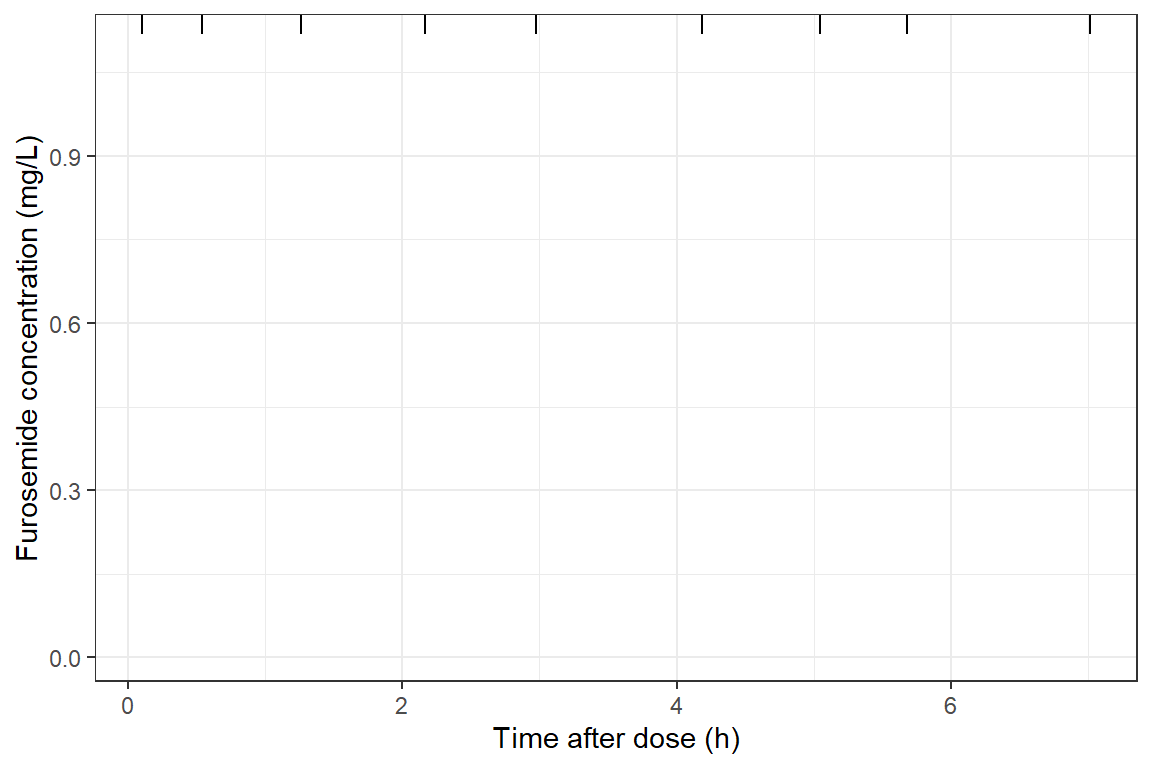
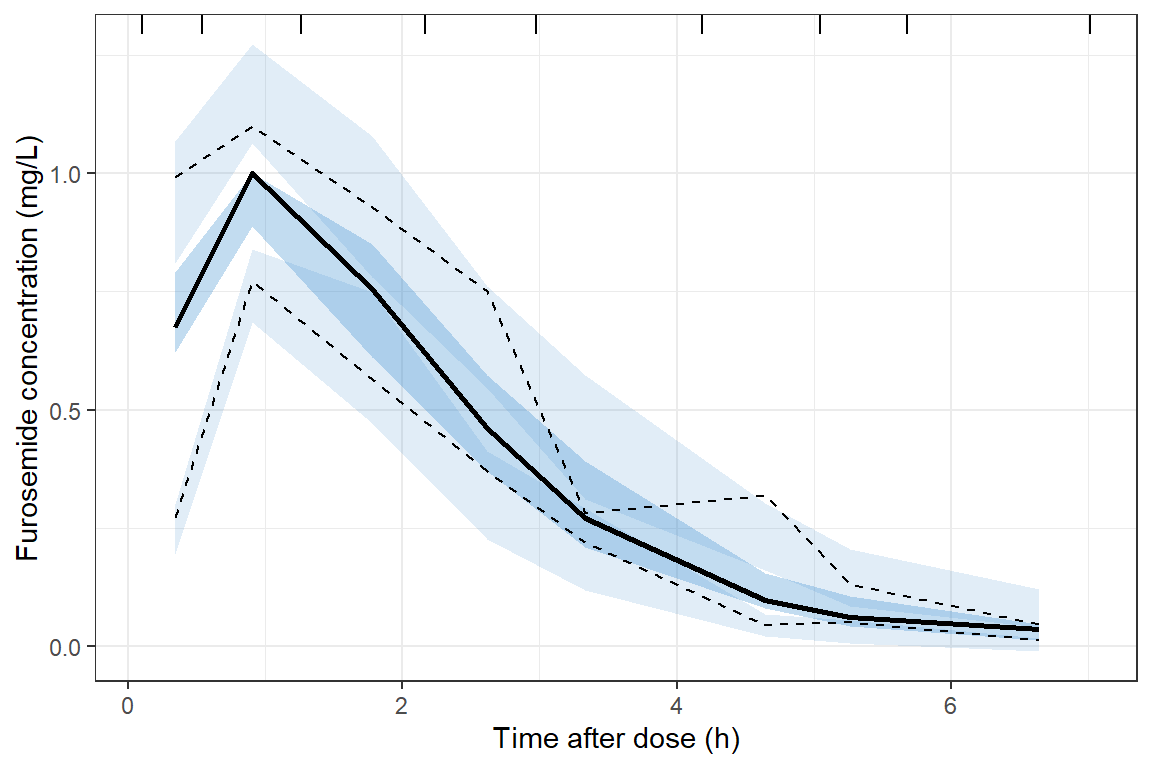
240626_2

diff --git a/docs/variability.html b/docs/variability.html
@@ -551,17 +551,14 @@ Figure 3: Conditionally weighted residuals plotted against time from dose - 2-co
 <p>The diagnostic plots we have used so far (DV vs PRED, DV vs IPRED, CWRES) assess model fit by examining residuals. A complementary and widely used approach is the <strong>Visual Predictive Check (VPC)</strong>.</p>
 <p>You may come across this in p</p>
 <p>The principle is straightforward: if our model is a good description of the data, then concentrations simulated from the model should look like the concentrations we actually observed. To produce a VPC, the fitted model is used to generate prediction intervals, which are then plotted alongside the observed data. A well-fitting model will have the observed data points falling within these intervals.</p>
-<pre class="r"><code># install.packages(&#39;vpc&#39;)
-library(vpc)
-
-vpc(fit, show = list(obs_dv = TRUE)) +
+<pre class="r"><code>vpcPlot(fit) +
   theme_bw(base_size = 11) +
   xlab(&quot;Time after dose (h)&quot;) +
   ylab(&quot;Furosemide concentration (mg/L)&quot;)</code></pre>
 <div class="figure" style="text-align: center"><span style="display:block;" id="fig:vpc"></span>
-<img src="variability_files/figure-html/vpc-1.png" alt="Visual Predictive Check for one-compartment model fit of phenobarbital data" width="576" />
+<img src="variability_files/figure-html/vpc-1.png" alt="Visual Predictive Check for one-compartment model fit of furosemide data" width="576" />
 <p class="caption">
-Figure 4: Visual Predictive Check for one-compartment model fit of phenobarbital data
+Figure 4: Visual Predictive Check for one-compartment model fit of furosemide data
 </p>
 </div>
 </div>
@@ -817,9 +814,8 @@ Figure 6: Basic diagnostic plots for one-compartment model fit of pheno data
 </p>
 </div>
 </div>
-</div>
-<div id="testing-a-continuous-covariate" class="section level1">
-<h1>Testing a continuous covariate</h1>
+<div id="testing-a-continuous-covariate" class="section level2">
+<h2>Testing a continuous covariate</h2>
 <p>When we include a continuous covariate such as weight in a population pharmacokinetic model, we need to define a meaningful reference point.</p>
 <p>Because clearance is estimated in the exponential domain, the typical population clearance is only recovered when the covariate term equals zero. So we need to ensure that zero corresponds to a clinically sensible value.</p>
 <p>By expressing weight as <TT>log(WT/median_weight)</TT>, the covariate term equals zero when an individual has exactly the median weight of the study population, meaning our typical clearance estimate corresponds to a patient of average weight.</p>
@@ -830,7 +826,7 @@ Figure 6: Basic diagnostic plots for one-compartment model fit of pheno data
   ungroup() %&gt;% 
   summarise(median(WT)) %&gt;% 
   as.numeric</code></pre>
-<p>We know from our summary statistics that the median weight for individuals in our data set is 1.3 kg, and that this is a set of neonatal data. We should therefore choose 1.3 kg as our reference weight.</p>
+<p>We know from our summary statistics (Table 1) that the median weight for individuals in the phenobarbital data set is 1.3 kg, and that this is a set of neonatal data. We should therefore choose 1.3 kg as our reference weight.</p>
 <pre class="r"><code>pheno$rWT&lt;-log(pheno$WT/mw) # to create centred weight covariate
 
 run2.mod &lt;- function() {
@@ -1010,8 +1006,9 @@ Figure 7: Basic diagnostic plots for one-compartment model fit of pheno data wit
 </p>
 </div>
 <p>The PRED vs DV plot shows improved model fit with run2 (Figure <a href="#fig:phenofit2">7</a> (a)). Although there is still some room for improvement.</p>
-<div id="using-the-objective-function-value-to-test-for-improvement-in-model-fit" class="section level3">
-<h3>Using the Objective Function Value to test for improvement in model fit</h3>
+</div>
+<div id="using-the-objective-function-value" class="section level2">
+<h2>Using the Objective Function Value</h2>
 <p>If you add one parameter to your model and compare the objective function with and without that parameter, a drop in objective function value &gt;3.84 suggests a statistically significant (p&lt;0.05) improvement in model fit.</p>
 <p>Have a look at the objective function for the two model runs.</p>
 <pre class="r"><code>run1$OBJF